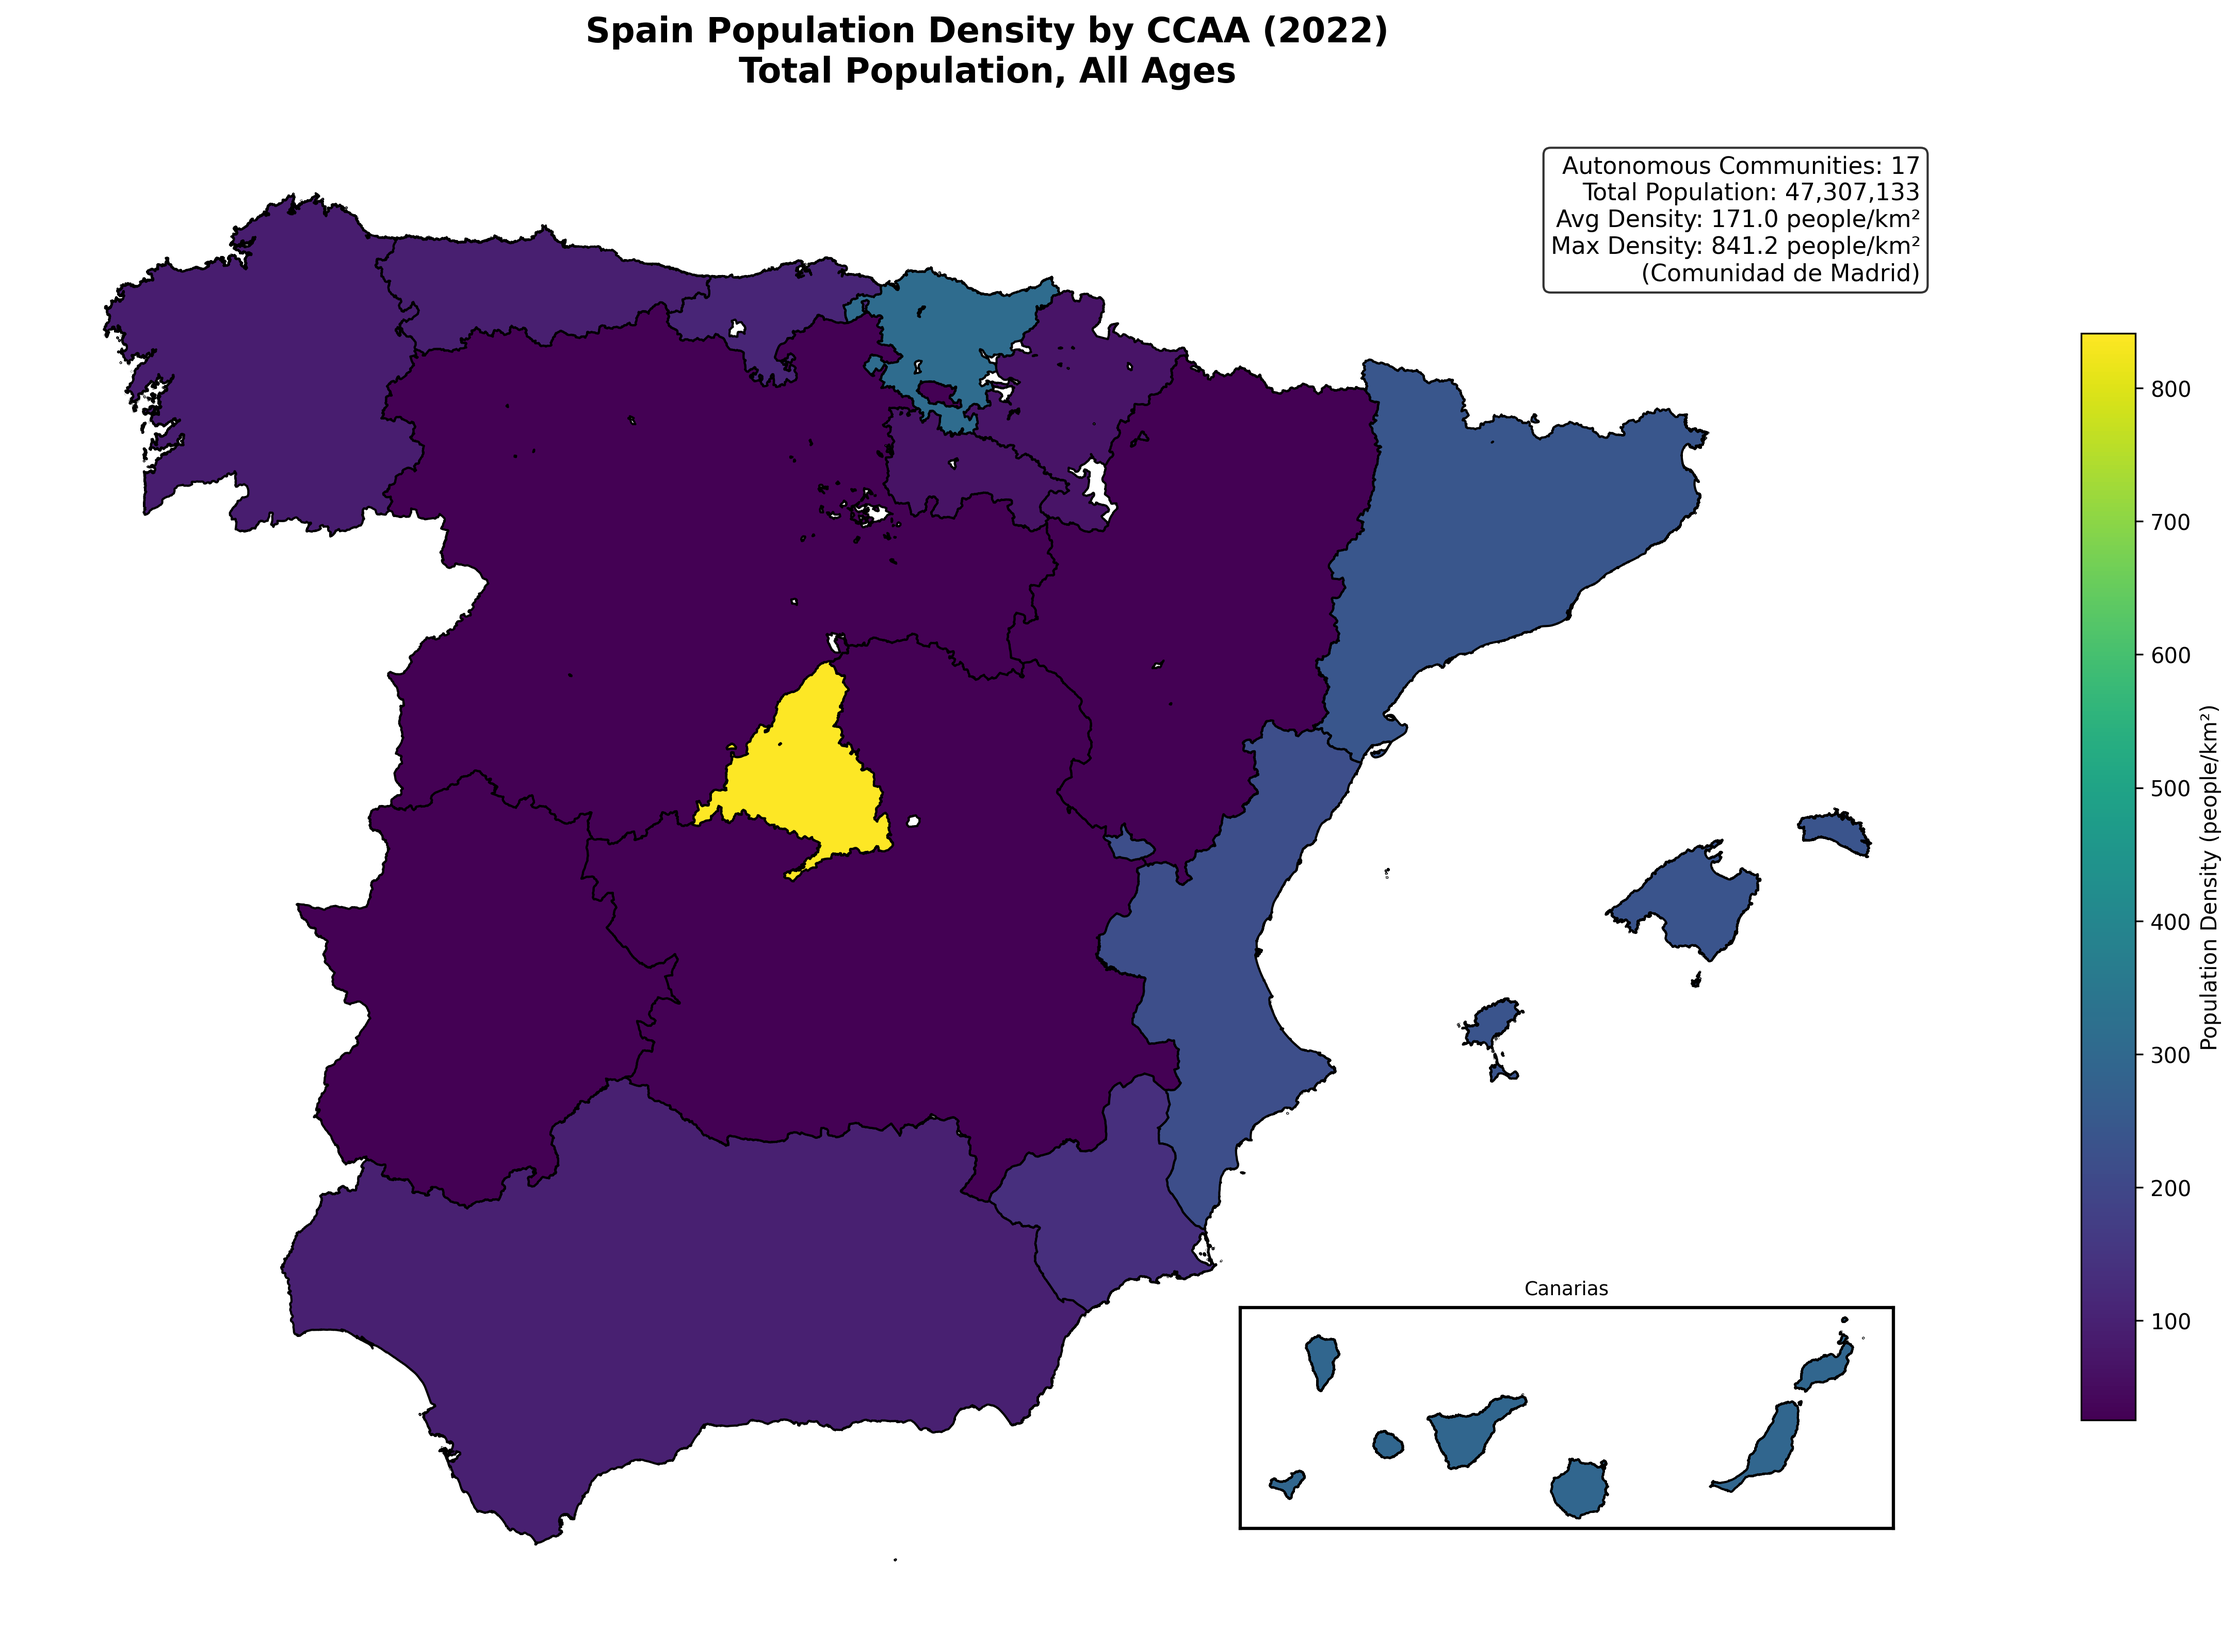
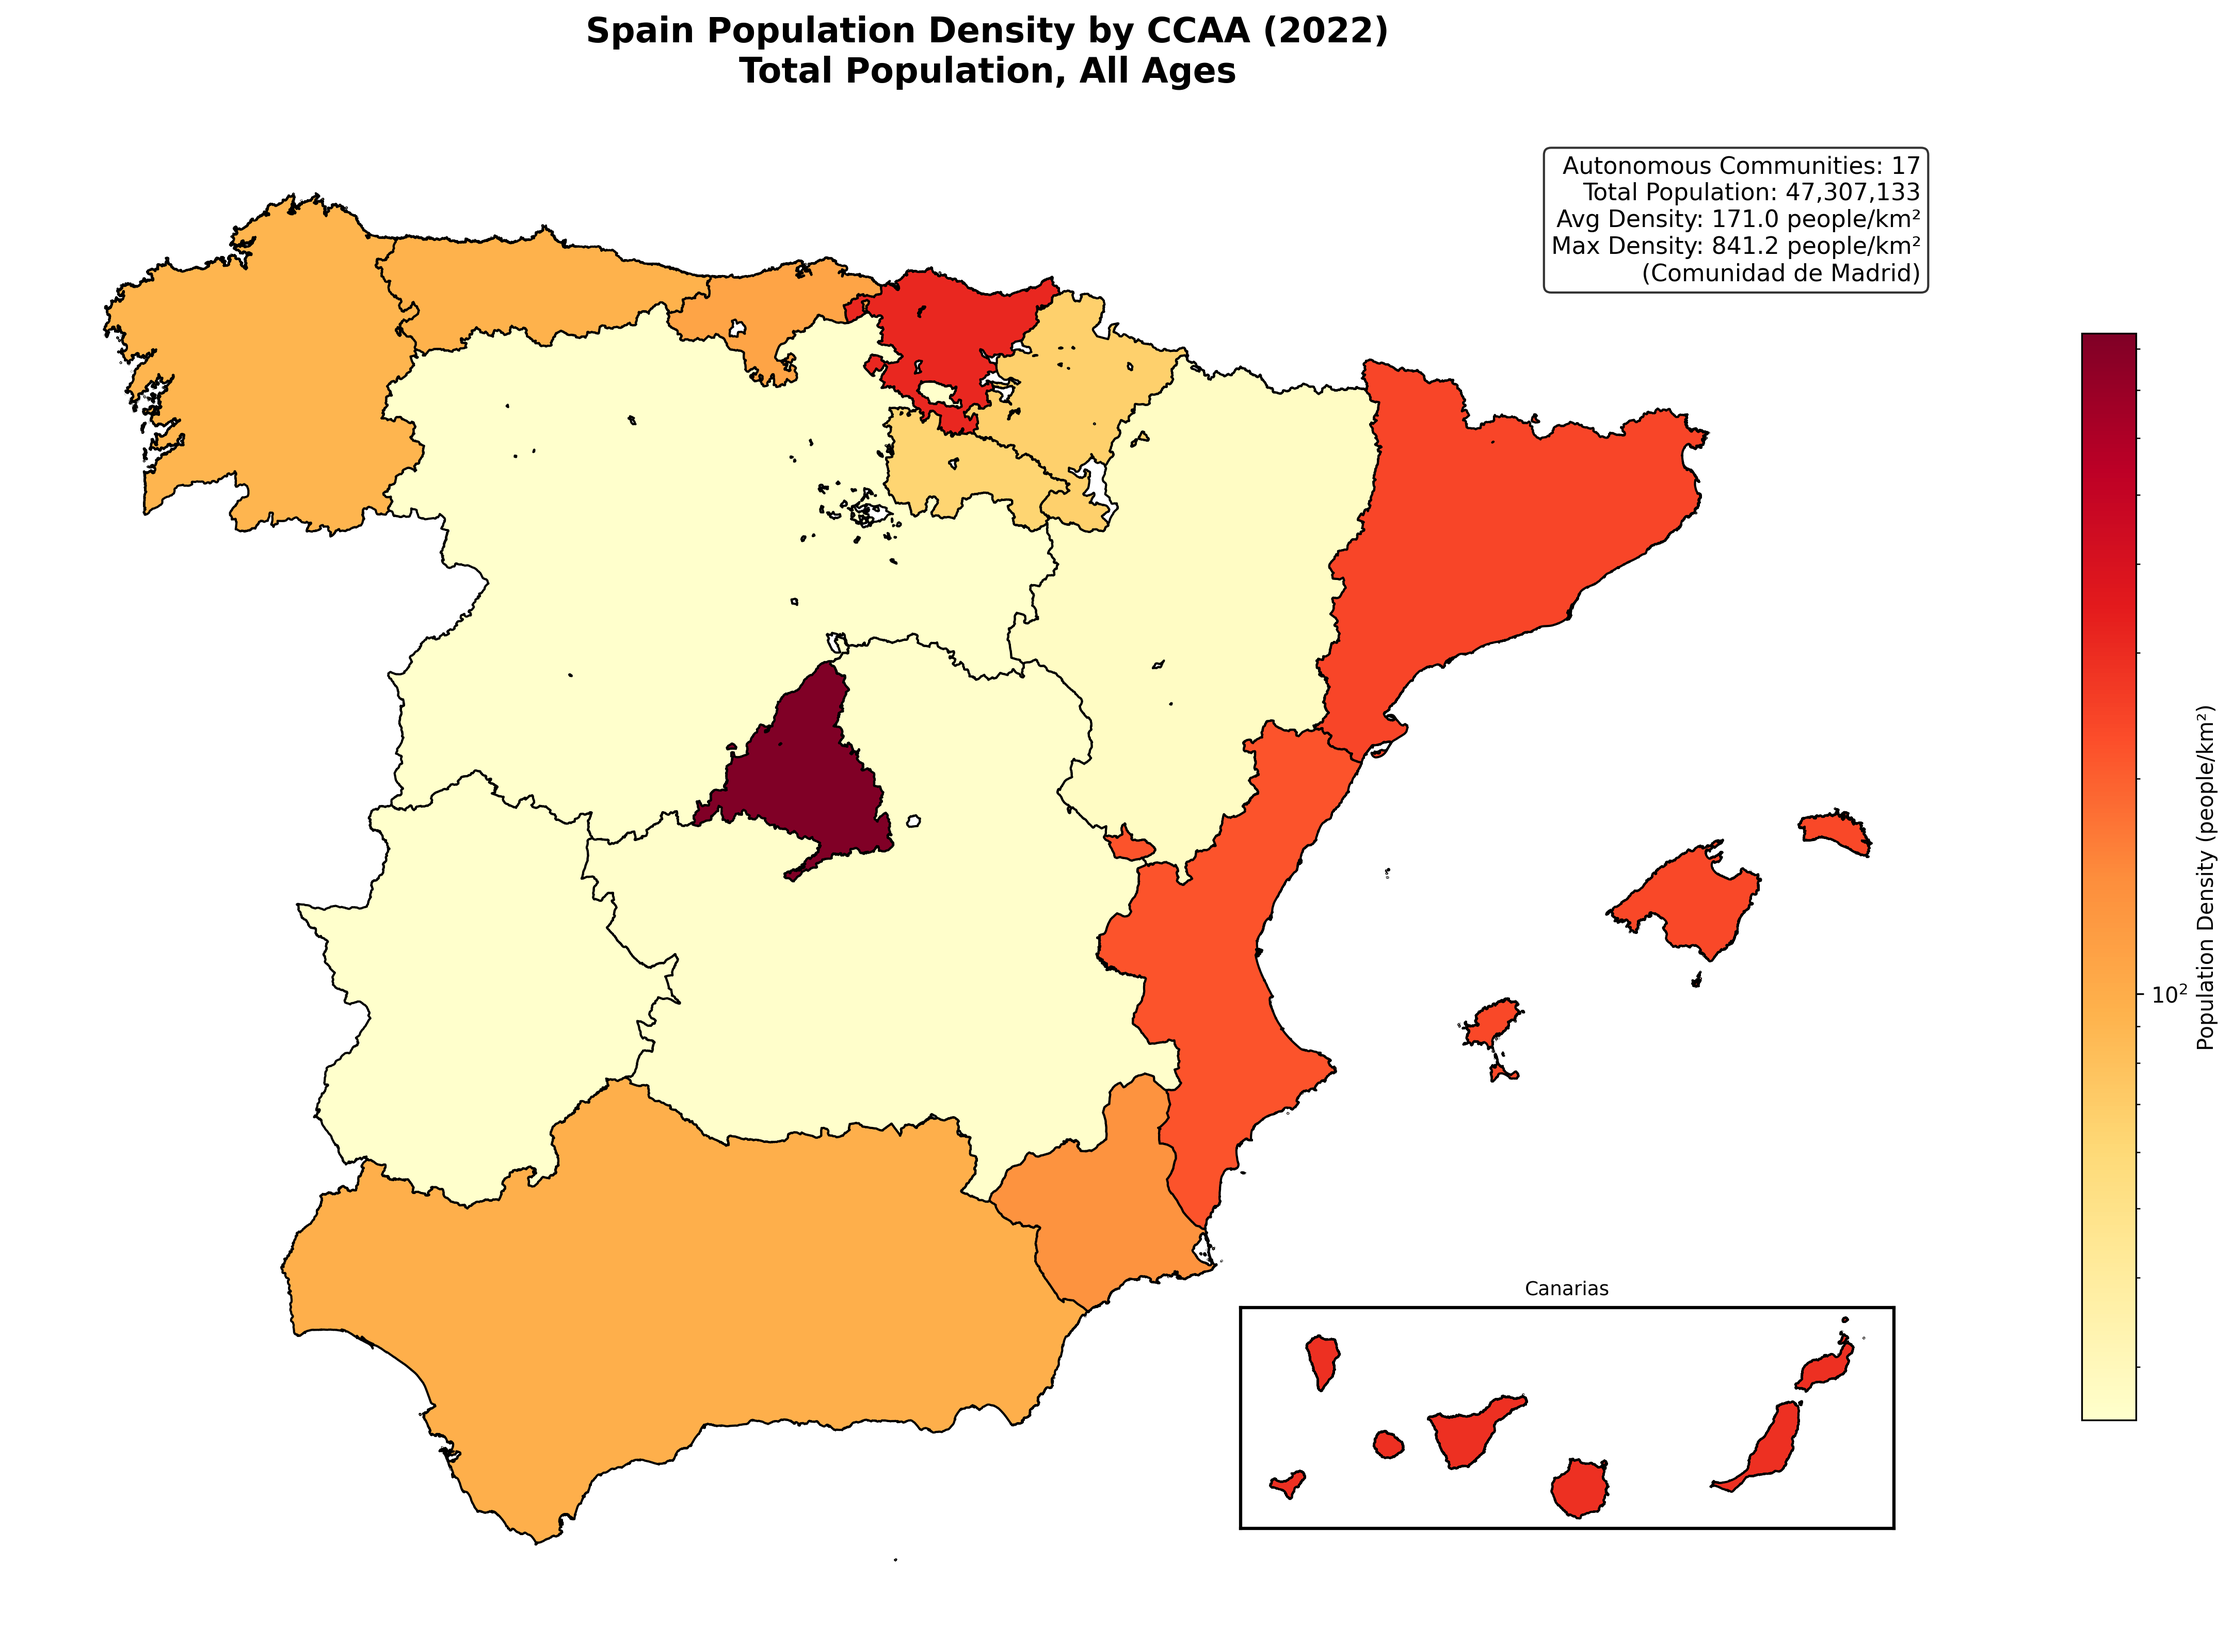
Revamp prospectra.earth → Spanish practice surface + dark mode
- Reposition from learning journal to geospatial-on-Databricks consultancy
- Full Spanish: hero mission, value-prop pillars, capabilities cards,
  portfolio, Notas, Quiénes somos, nav + footer (lang: es)
- Natural-Spanish manifesto + wedge; drop 'lakehouse' jargon for 'Databricks'
- Dark mode (navbar toggle, custom-dark.scss, homepage token flip)
- Single-stroke diluted H3 honeycomb in the hero
- P-01 Spanish case study; finding locked at 187x (median) / 14x (mean)
- Publish unified YlOrRd P-01 maps; fix dead P-02/P-03 links

diff --git a/index.css b/index.css
@@ -15,6 +15,20 @@
   --accent-deep: #8f2f0f;
 }
 
+/* Dark mode — Quarto adds .quarto-dark on the body when the theme toggle is dark.
+   The whole homepage is built on these tokens, so redefining them flips everything. */
+.quarto-dark {
+  --paper: #14110c;
+  --paper-soft: #1d1812;
+  --paper-deep: #241e16;
+  --ink: #f3eee5;
+  --ink-soft: #d9d1c3;
+  --muted: #9b8f7c;
+  --hair: #342c22;
+  --accent: #e0673b;
+  --accent-deep: #b8421a;
+}
+
 /* Quarto emits an (empty) title block from the page title — hide it; the hero is the heading. */
 #title-block-header { display: none; }
 
@@ -64,12 +78,17 @@ body {
   position: absolute;
   inset: 0;
   pointer-events: none;
-  opacity: 0.14;
+  opacity: 0.09;
   z-index: 0;
 }
 .hex-bg svg { width: 100%; height: 100%; }
-@keyframes hexPulse { 0%, 100% { fill-opacity: 1; } 50% { fill-opacity: 0.6; } }
-.hex-active { animation: hexPulse 3.2s ease-in-out infinite; }
+/* Single-stroke honeycomb — shared edges overlap into one clean line; follows the palette. */
+.hex-bg svg polygon {
+  fill: none;
+  stroke: var(--ink);
+  stroke-width: 1;
+  vector-effect: non-scaling-stroke;
+}
 
 /* Fade-up reveal on load */
 @keyframes fadeUp { from { opacity: 0; transform: translateY(16px); } to { opacity: 1; transform: translateY(0); } }
@@ -80,7 +99,6 @@ body {
 .reveal.d4 { animation-delay: 0.46s; }
 .reveal.d5 { animation-delay: 0.62s; }
 @media (prefers-reduced-motion: reduce) {
-  .hex-active { animation: none; }
   .reveal { animation: none; opacity: 1; }
 }
 
@@ -136,9 +154,8 @@ body {
 .hero-sub {
   position: relative;
   z-index: 2;
-  margin-top: 52px;
-  padding-top: 28px;
-  border-top: 1px solid var(--hair);
+  margin-top: 44px;
+  padding-top: 8px;
   display: grid;
   grid-template-columns: 1.4fr 1fr;
   gap: 64px;

diff --git a/custom-dark.scss b/custom-dark.scss
@@ -1,0 +1,45 @@
+/*-- scss:defaults --*/
+// Dark counterpart of custom.scss — same brand language, inverted for a dark canvas.
+$primary:      #e0673b;  // brighter terracotta for contrast on dark
+$body-color:   #f3eee5;  // cream text
+$body-bg:      #14110c;  // deep warm ink-paper
+$link-color:   #e0673b;
+$link-hover:   #f0a17e;
+$navbar-bg:    #1c1712;
+$navbar-fg:    #f3eee5;
+$code-color:   #e0673b;
+$border-color: #342c22;  // dark hair
+
+/*-- scss:rules --*/
+@import url('https://fonts.googleapis.com/css2?family=Fraunces:ital,opsz,wght@0,9..144,300..700;1,9..144,300..600&family=DM+Sans:opsz,wght@9..40,300..700&family=IBM+Plex+Mono:wght@400;500&display=swap');
+
+html { scroll-behavior: smooth; }
+@media (prefers-reduced-motion: reduce) { html { scroll-behavior: auto; } }
+body { font-feature-settings: "kern", "liga", "calt"; letter-spacing: -0.005em; }
+h1, h2, h3, h4 { font-family: "Fraunces", serif; letter-spacing: -0.02em; font-weight: 400; }
+h1 { font-weight: 300; }
+.navbar-brand img { height: 26px; }
+
+/* Editorial nav — mono lowercase wordmark + uppercase mono links */
+.navbar { border-bottom: 1px solid $border-color; }
+.navbar-title {
+  font-family: "IBM Plex Mono", monospace;
+  text-transform: lowercase;
+  font-weight: 500;
+  font-size: 15px;
+  letter-spacing: 0.18em;
+  color: $body-color;
+}
+.navbar-title::after { content: "·"; color: $primary; }
+.navbar-nav .nav-link {
+  font-family: "IBM Plex Mono", monospace;
+  text-transform: uppercase;
+  font-size: 11px;
+  letter-spacing: 0.14em;
+  color: #9b8f7c;
+}
+.navbar-nav .nav-link:hover,
+.navbar-nav .nav-link:focus,
+.navbar-nav .nav-link.active { color: $body-color; }
+
+code { font-family: "IBM Plex Mono", monospace; }
